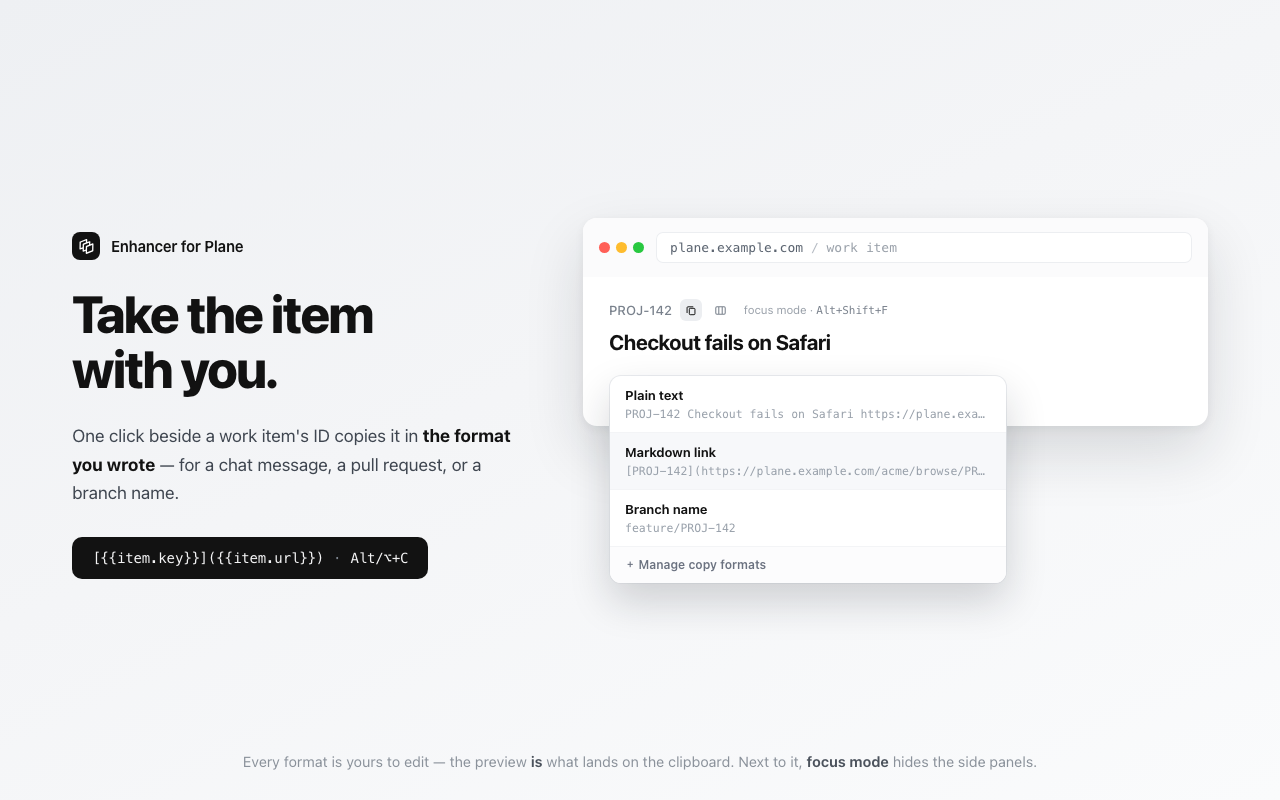
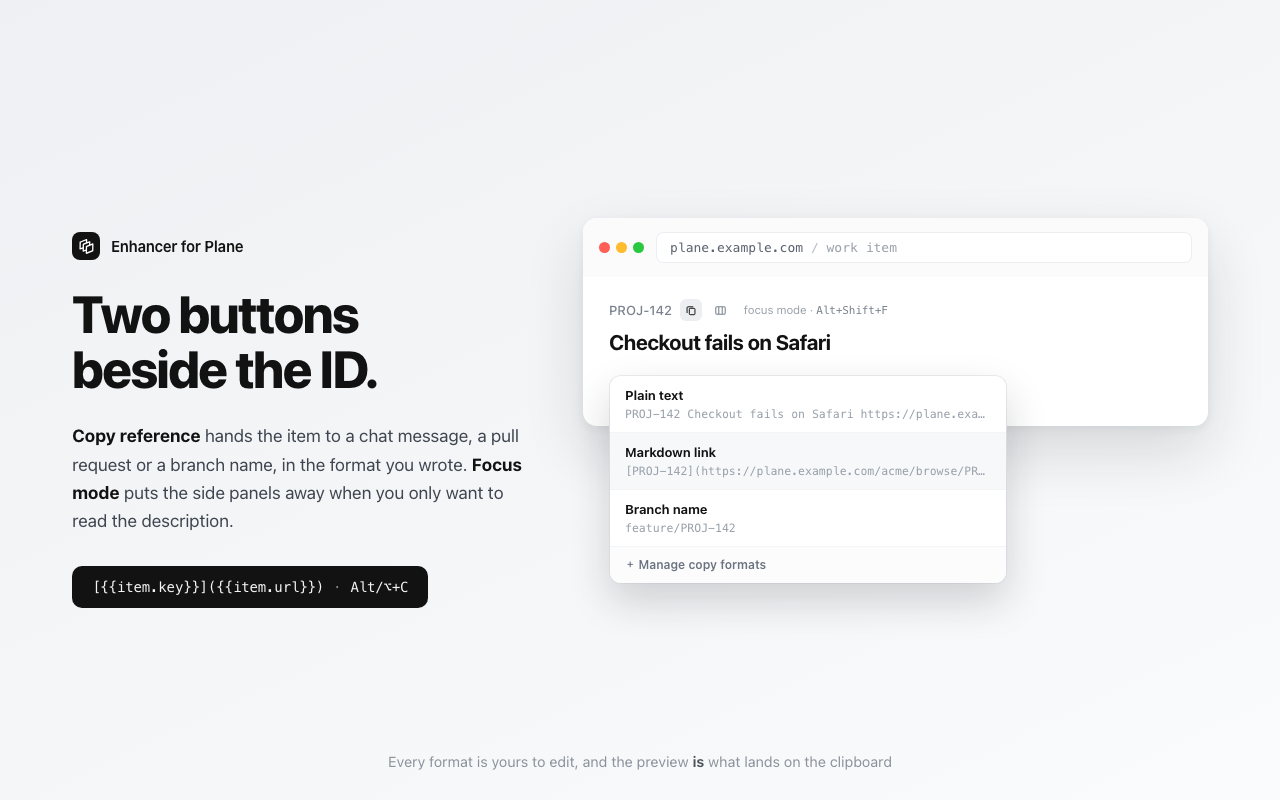
Cut the store preamble, and read the catalogue end to end
The store description opened with two paragraphs nobody needed: what Plane is, and
that this is unofficial — which every reader of an "Enhancer for Plane" listing
already knows. Both moved to the foot, where "makeplane", "plane.so" and "Jira"
still do their indexing job without standing between the reader and the features.
extDesc lost the same preamble and now says only what the extension does; the
settings tagline lost "(makeplane / plane.so)" for the same reason — whoever reads
it installed the extension.

Capture 3 was a copy-reference poster with a second button in the corner. Both
buttons are the subject now: the headline is the pair, and the lede gives a clause
to each. Re-rendered in both languages.

Reading the catalogue end to end, which is the only thing that catches this:

- "Style rules (width / length)" was a promise the card stopped keeping the moment
  focus mode put display and padding in the same list. It is "Style rules" now.
- The toasts named Alt+Shift+F without the macOS chord the reader would press.
- optPermDesc said "$COUNT$ listed site(s)/source(s)" — two slashed plurals in one
  breath. The Korean import-version error welded a parenthesis onto a sentence.
- Six messages are appended to another one and begin with a load-bearing space.
  They now say so in a description, because the next person to tidy one would break
  the sentence it lands in.
- Four placeholders are syntax rather than prose ({{item.key}}, {{key}}, an example
[…]

Changed region(s): [[0.0312, 0.5312, 0.4062, 0.7812], [0.0625, 0.375, 0.3125, 0.5], [0.1875, 0.9375, 0.8125, 0.9688]]

diff --git a/options.html b/options.html
@@ -13,7 +13,7 @@
           <img src="icons/icon48.png" alt="" width="28" height="28" />
           <div>
             <h1 data-i18n="extShort">Enhancer for Plane</h1>
-            <p data-i18n="optTagline">Fills the gaps in Plane (makeplane / plane.so) — quick open, issue templates, copy reference, focus mode, width rules. Quick open works on Jira and Linear too.</p>
+            <p data-i18n="optTagline">Fills the gaps in Plane — quick open, issue templates, copy reference, focus mode, width rules. Quick open works on Jira and Linear too.</p>
             <p class="about"><span id="appVersion"></span><a class="about-link" href="https://github.com/gaerae/enhancer-for-plane" target="_blank" rel="noopener"><svg class="about-ico" viewBox="0 0 16 16" aria-hidden="true"><path fill="currentColor" d="M8 0C3.58 0 0 3.58 0 8a8 8 0 0 0 5.47 7.59c.4.07.55-.17.55-.38 0-.19-.01-.82-.01-1.49-2.01.37-2.53-.49-2.69-.94-.09-.23-.48-.94-.82-1.13-.28-.15-.68-.52-.01-.53.63-.01 1.08.58 1.23.82.72 1.21 1.87.87 2.33.66.07-.52.28-.87.51-1.07-1.78-.2-3.64-.89-3.64-3.95 0-.87.31-1.59.82-2.15-.08-.2-.36-1.02.08-2.12 0 0 .67-.21 2.2.82a7.6 7.6 0 0 1 2-.27c.68 0 1.36.09 2 .27 1.53-1.04 2.2-.82 2.2-.82.44 1.1.16 1.92.08 2.12.51.56.82 1.27.82 2.15 0 3.07-1.87 3.75-3.65 3.95.29.25.54.73.54 1.48 0 1.07-.01 1.93-.01 2.2 0 .21.15.46.55.38A8 8 0 0 0 16 8c0-4.42-3.58-8-8-8Z"/></svg><span data-i18n="optGitHub">GitHub</span></a> <span class="about-sep">·</span> <a class="about-link" href="https://github.com/gaerae/enhancer-for-plane/issues" target="_blank" rel="noopener"><svg class="about-ico" viewBox="0 0 16 16" aria-hidden="true"><path fill="none" stroke="currentColor" stroke-width="1.5" stroke-linecap="round" stroke-linejoin="round" d="M14 8.2c0 2.7-2.7 4.9-6 4.9-.6 0-1.2-.07-1.7-.2L3 14.5l.7-2.5C2.6 11 2 9.7 2 8.2 2 5.5 4.7 3.3 8 3.3s6 2.2 6 4.9Z"/></svg><span data-i18n="optFeedback">Send feedback</span></a> <span class="about-sep">·</span> <a class="about-link" href="https://chromewebstore.google.com/detail/dicjfphghjfljkifogkplgdeefjdkhbo/reviews" target="_blank" rel="noopener"><svg class="about-ico" viewBox="0 0 16 16" aria-hidden="true"><path fill="currentColor" d="M8 1.6l1.9 3.9 4.3.6-3.1 3 .74 4.3L8 11.4l-3.84 2 .74-4.3-3.1-3 4.3-.6z"/></svg><span data-i18n="optRate">Rate it</span></a></p>
           </div>
         </div>
@@ -256,7 +256,8 @@
             </table>
           </div>
           <p class="desc" data-i18n-html="optKeysRebind">Focus mode is a browser command, so you can rebind it — or clear it — at <code>chrome://extensions/shortcuts</code>. The other two are handled inside the page and are fixed.</p>
-          <p class="desc" data-i18n-html="optKeysWhyTyping"><kbd>Alt</kbd>+<kbd>T</kbd> is meant to be used mid-sentence, so it works while you type. <kbd>Alt</kbd>+<kbd>C</kbd> deliberately does not: on macOS <kbd>⌥</kbd>+<kbd>C</kbd> is the character “ç”, and a shortcut that swallows it out of a title would take more than it gives. Focus mode escapes that trade-off by being a browser command, which Chrome intercepts before the page ever sees the key.</p>
+          <p class="desc" data-i18n-html="optKeysWhyTyping"><kbd>Alt</kbd>+<kbd>T</kbd> is meant to be used mid-sentence, so it works while you type. <kbd>Alt</kbd>+<kbd>C</kbd> deliberately does not: on macOS <kbd>⌥</kbd>+<kbd>C</kbd> is the character “ç”, and a shortcut that swallows it out of a title would take more than it gives.</p>
+          <p class="desc" data-i18n="optKeysWhyCommand">Focus mode escapes that trade-off by being a browser command rather than a key handler in the page — Chrome intercepts it before the page ever sees the key.</p>
         </section>
       </div>
 

diff --git a/store-assets/screenshot-3-copy.html b/store-assets/screenshot-3-copy.html
@@ -90,10 +90,11 @@
   // actually produces from those formats, title and all.
   window.T = {
     en: {
-      head: "Take the item<br />with you.",
+      head: "Two buttons<br />beside the ID.",
       lede:
-        "One click beside a work item's ID copies it in <b>the format you wrote</b> — " +
-        "for a chat message, a pull request, or a branch name.",
+        "<b>Copy reference</b> hands the item to a chat message, a pull request or a " +
+        "branch name, in the format you wrote. <b>Focus mode</b> puts the side panels " +
+        "away when you only want to read the description.",
       crumb: "work item",
       itemTitle: "Checkout fails on Safari",
       f1: "Plain text",
@@ -103,13 +104,13 @@
       f3: "Branch name",
       manage: "＋ Manage copy formats",
       focusTag: "focus mode · <span class=\"kbd\">Alt+Shift+F</span>",
-      caption: "Every format is yours to edit — the preview <b>is</b> what lands on the clipboard. Next to it, <b>focus mode</b> hides the side panels."
+      caption: "Every format is yours to edit, and the preview <b>is</b> what lands on the clipboard"
     },
     ko: {
-      head: "항목을 그대로<br />가져가기.",
+      head: "번호 옆<br />버튼 두 개.",
       lede:
-        "작업 항목 번호 옆 버튼을 한 번 누르면 <b>직접 정한 형식</b>으로 복사됩니다 — " +
-        "메신저로, 풀 리퀘스트 본문으로, 브랜치명으로.",
+        "<b>참조 복사</b>는 직접 정한 형식으로 항목을 넘겨줍니다 — 메신저로, 풀 리퀘스트 " +
+        "본문으로, 브랜치명으로. <b>집중 모드</b>는 본문만 읽고 싶을 때 측면 패널을 치웁니다.",
       crumb: "작업 항목",
       itemTitle: "Safari에서 결제가 실패합니다",
       f1: "일반 텍스트",
@@ -119,7 +120,7 @@
       f3: "브랜치명",
       manage: "＋ 참조 복사 형식 관리",
       focusTag: "집중 모드 · <span class=\"kbd\">Alt+Shift+F</span>",
-      caption: "형식은 마음대로 고칠 수 있고, 미리보기가 <b>곧</b> 클립보드에 담길 내용입니다. 그 옆 버튼은 <b>집중 모드</b>로, 측면 패널을 숨깁니다."
+      caption: "형식은 마음대로 고칠 수 있고, 미리보기가 <b>곧</b> 클립보드에 담길 내용입니다"
     }
   };
 </script>

diff --git a/tools/test.js b/tools/test.js
@@ -1490,6 +1490,23 @@ test("shortcuts: a modifier chain reads the same on both platforms", () => {
   eq(bad, [], "a macOS chain written without separators: " + bad.join(", "));
 });
 
+// Why no message carries a line break, written down so the question does not come back: a JSON
+// string cannot span physical lines, so a "\n" inside one buys the file nothing — the line is
+// exactly as long to read and to diff — while changing what the user sees. Nothing in our CSS
+// sets white-space to anything but a collapsing value, so a break vanishes in the pages; in a
+// title attribute it does the opposite and breaks the tooltip in two. Copy that has grown too
+// long to read is split into two keys instead (optKeysWhyTyping / optKeysWhyCommand).
+test("i18n: no message carries a line break", () => {
+  const bad = [];
+  for (const loc of ["en", "ko"]) {
+    const cat = JSON.parse(read("_locales/" + loc + "/messages.json"));
+    for (const [key, entry] of Object.entries(cat)) {
+      if (/[\n\r]/.test(String((entry && entry.message) || ""))) bad.push(loc + "/" + key);
+    }
+  }
+  eq(bad, [], "a line break inside a message: " + bad.join(", "));
+});
+
 // The other half of the same inconsistency: the templates card marked its shortcut up as
 // <kbd>, the focus card used <b> and the copy card <code>, so three cards described a
 // keystroke three ways on one settings page. Only messages that already carry markup are

diff --git a/store-assets/STORE_LISTING.md b/store-assets/STORE_LISTING.md
@@ -26,8 +26,10 @@ Enhancer for Plane — Quick Open & Issue Templates
 > Enhancer for Plane" is something you can say, and a descriptive phrase is not. The half
 > after the dash is the searchable one: "Plane" on its own loses to aircraft, and nobody
 > types "enhancer", so the two features people actually search for sit where the store can
-> index them. "makeplane" and "plane.so" belong in the summary and description rather than
-> the name, which they only lengthen. "Jira" stays out of the name too: quick open works
+> index them. "makeplane" and "plane.so" are searchable spellings rather than reading matter:
+> they stay in the summary and at the foot of the description, out of the name (which they
+> only lengthen) and out of the extension's own description (where the reader is already
+> looking at a Plane extension). "Jira" stays out of the name too: quick open works
 > there, but the other five features need Plane's own pages, and a name must not promise
 > otherwise.
 
@@ -47,11 +49,8 @@ English
 
 ## Detailed description  (max 16,000)
 
-Every issue tracker leaves the same gaps: no reusable issue templates for the tickets you file over and over, no way to open an item from its key, no way to hand one to a chat message without retyping it.
-This fills them for Plane (makeplane / plane.so), the open-source Jira alternative — inside the Plane UI, on any plan, with no changes to your Plane server.
-
-Plane (makeplane / plane.so) is the open-source project management, issues, and wiki tool, a self-hosted alternative to Jira.
-This is an independent, unofficial add-on — not affiliated with or endorsed by Plane, and "Plane" is a trademark of its owner. (And no — nothing to do with airplanes.)
+Every issue tracker leaves the same gaps: no reusable issue templates for the tickets you file over and over, no way to open an item from its key, no way to hand one to a chat message without retyping it, no way to put the side panels away and read.
+This fills them inside the Plane UI, on any plan, with no changes to your Plane server.
 
 ✨ WHAT YOU GET
 
@@ -123,6 +122,9 @@ See the privacy policy for details.
 
 Open source. Feedback and issues welcome.
 
+Works with Plane (makeplane / plane.so), the open-source project management, issues and wiki tool, and a self-hosted alternative to Jira.
+An independent, unofficial add-on: not affiliated with or endorsed by Plane, and "Plane" is a trademark of its owner. (And no — nothing to do with airplanes.)
+
 ---
 
 ## Single purpose  (review form)
@@ -193,7 +195,9 @@ Enhancer for Plane — 이슈 템플릿 & 바로 열기
 > "Enhancer for Plane 설치하세요"는 말이 되지만 서술형 문구는 그렇지 않습니다. 붙임표
 > 뒤가 검색되는 쪽입니다. "Plane"만으로는 항공기 명사에 밀리고 "enhancer"는 아무도
 > 검색하지 않으므로, 사람들이 실제로 찾는 두 기능을 스토어가 색인할 자리에 둡니다.
-> "makeplane"과 "plane.so"는 이름을 길게만 만들어서 요약과 상세 설명에 남겼습니다.
+> "makeplane"과 "plane.so"는 읽을 문구가 아니라 검색용 표기라서 요약과 상세 설명 맨 아래에만
+> 두었습니다. 이름은 길어지기만 하고, 익스텐션 자체 설명은 이미 Plane 익스텐션을 보고 있는
+> 사람이 읽는 문구라서 뺐습니다.
 > 이름을 바꿔도 확장 ID와 리스팅 URL은 그대로이므로 리뷰와 설치 수는 유지됩니다.
 
 ### 요약 / 짧은 설명 (max 132)
@@ -204,11 +208,8 @@ Enhancer for Plane — 이슈 템플릿 & 바로 열기
 
 ### 상세 설명 (max 16,000)
 
-어느 이슈 트래커든 비어 있는 곳은 같습니다 — 반복해 등록하는 티켓에 쓸 이슈 템플릿이 없고, 키로 항목을 바로 열 방법이 없고, 다시 타이핑하지 않고 메신저로 넘길 방법이 없습니다.
-오픈소스 Jira 대안 Plane(makeplane / plane.so)에서 그 빈 곳을 채웁니다. Plane UI 안에서, 어느 플랜에서든, Plane 서버는 전혀 건드리지 않습니다.
-
-Plane(makeplane / plane.so)은 오픈소스 프로젝트 관리·이슈·위키 도구이자 Jira의 자체 호스팅 대안입니다.
-본 익스텐션은 독립적인 비공식 애드온으로, Plane과 제휴하거나 승인받지 않았으며 "Plane"은 해당 소유자의 상표입니다. (비행기와는 무관합니다.)
+어느 이슈 트래커든 비어 있는 곳은 같습니다 — 반복해 등록하는 티켓에 쓸 이슈 템플릿이 없고, 키로 항목을 바로 열 방법이 없고, 다시 타이핑하지 않고 메신저로 넘길 방법이 없고, 측면 패널을 치워 본문만 볼 방법이 없습니다.
+그 빈 곳을 Plane UI 안에서 채웁니다. 어느 플랜에서든, Plane 서버는 전혀 건드리지 않습니다.
 
 ✨ 무엇을 제공하나
 
@@ -282,6 +283,12 @@ JSON 파일 하나(사내 서버·Git 호스트·아무 URL)를 가리키면 팀
 3. 설정에서 템플릿·복사 형식·폭 규칙을 추가합니다.
 
 오픈소스입니다. 피드백과 이슈를 환영합니다.
+
+makeplane / plane.so — 오픈소스 프로젝트 관리·이슈·위키 도구이자 Jira의 자체 호스팅 대안인 Plane에서 동작합니다.
+독립적인 비공식 애드온입니다. Plane과 제휴하거나 승인받지 않았으며 "Plane"은 해당 소유자의 상표입니다. (비행기와는 무관합니다.)
+
+---
+
 ### 단일 목적 / 권한 정당화 (심사 폼)
 심사 폼(단일 목적, 권한 정당화, 데이터 사용)은 Google 리뷰어를 위해 **영문 그대로
 제출**하세요. 위 영문 섹션을 사용하면 됩니다. 한국어 번역이 반드시 필요한 칸은

diff --git a/README.md b/README.md
@@ -94,7 +94,7 @@ Plane server**, applied only on the domains you enable.
 
 ![One click beside a work item's ID copies it in the format you wrote](store-assets/screenshot-3-copy.png)
 
-4. **📐 Style rules (width / length) — a generic engine**
+4. **📐 Style rules — a generic engine**
    - Freely add / edit / delete `selector + property + value` rules. Each rule is
      injected as `selector { property: value !important; }`.
    - Type the full value with units, e.g. `320px`, `30rem`, `55ch`. Selector
